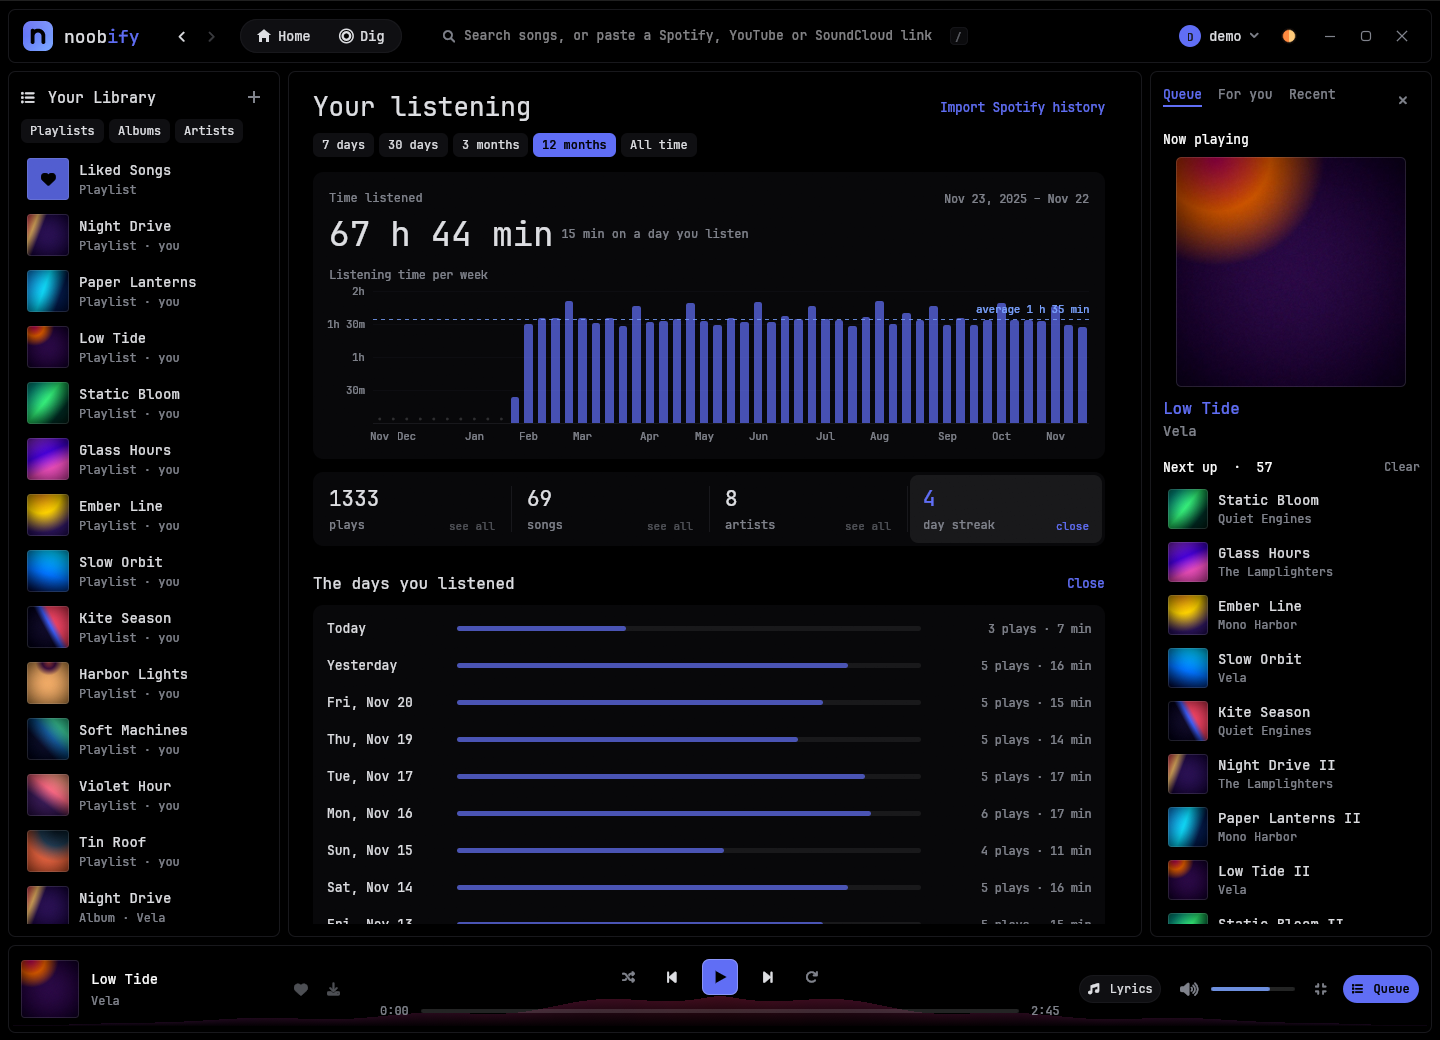
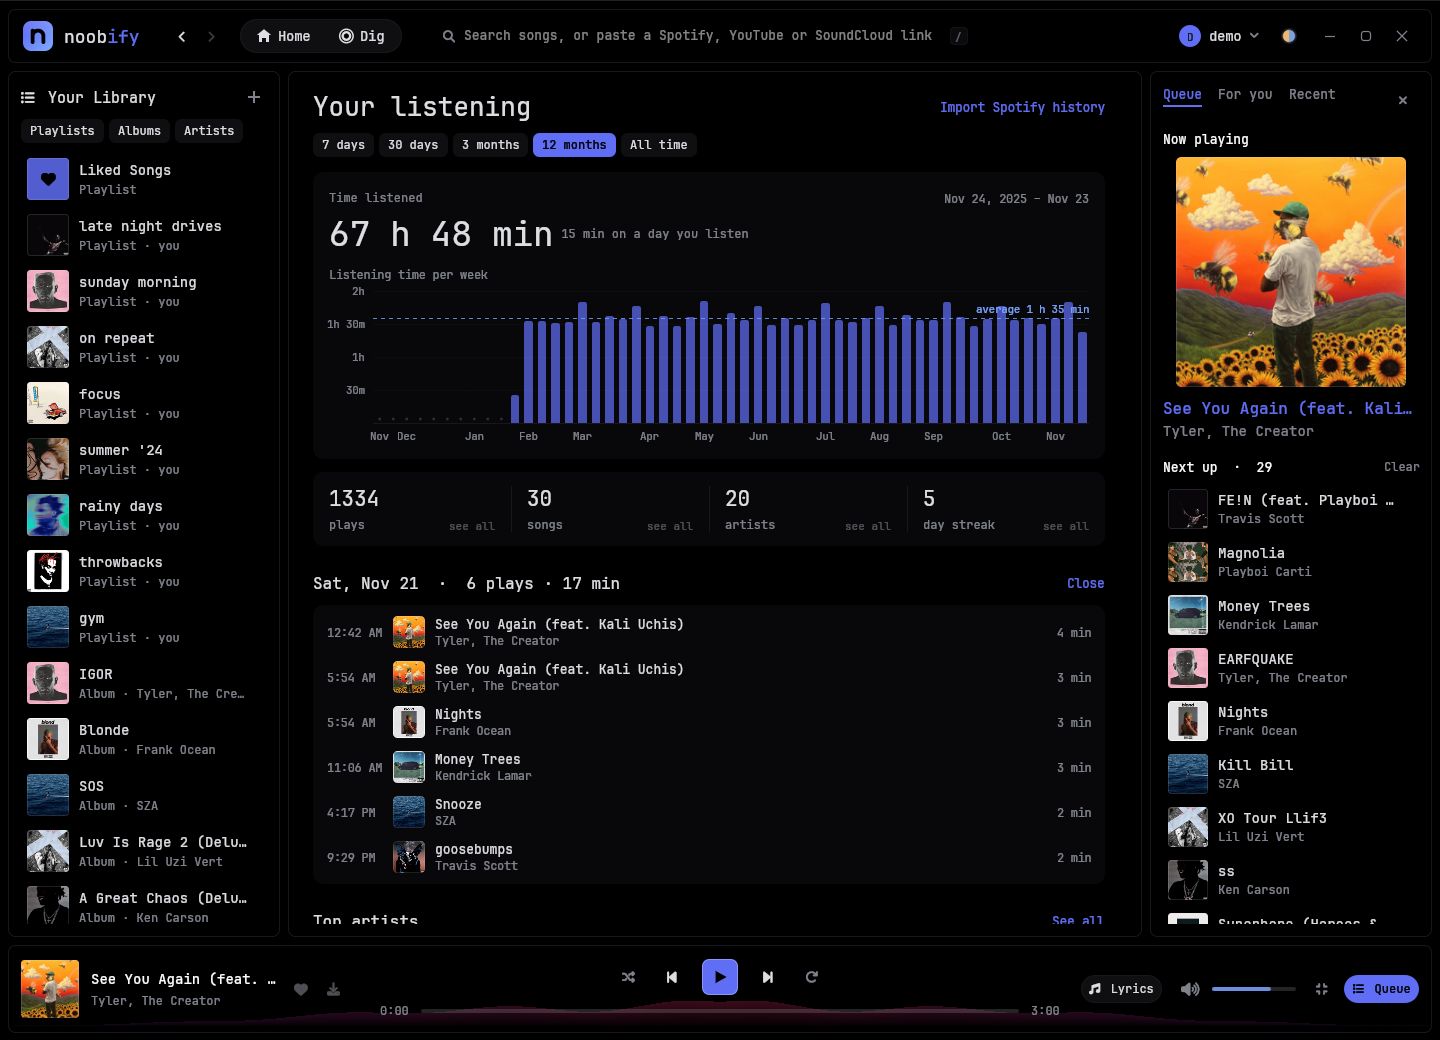
README: rewritten, with real songs in the screenshots

diff --git a/README.md b/README.md
@@ -5,7 +5,7 @@
 <h1 align="center">noobify</h1>
 
 <p align="center">
-  A free music player for Windows. YouTube and SoundCloud in one place, with your Spotify library if you want it.
+  A free music player for Windows. YouTube and SoundCloud in one place, plus your Spotify library if you want it.
 </p>
 
 <p align="center">
@@ -18,10 +18,14 @@
 
 ## Why
 
-Most of what people listen to is on YouTube, but YouTube isn't a music player. noobify
-is one: a library, a queue, lyrics, your song on Discord, and a good way to find new
-music, all playing from YouTube and SoundCloud. Sign in with Spotify and your playlists
-and liked songs come along. Skip it and everything else still works.
+Most of the music people listen to is on YouTube, but YouTube isn't a music player.
+There's no real library, the queue gets in your way, and half the results are the wrong
+version of the song. The Spotify desktop app has the library, but it's heavy, and a lot of
+music just isn't on it.
+
+So we made the player we wanted: a proper music player built on YouTube and SoundCloud,
+with a library, a queue, synced lyrics and your song on Discord. Sign in with Spotify and
+your playlists and liked songs come along. Don't, and everything else still works.
 
 It's free and open source. No account, no ads, and it never asks for admin rights.
 
@@ -36,55 +40,81 @@ It's free and open source. No account, no ads, and it never asks for admin right
   </tr>
 </table>
 
-## What it does
+## What makes it different
 
-- **Spotify if you want it**: Sign in to bring your playlists, liked songs and artist
-  pages. The music itself plays from YouTube and SoundCloud. noobify only reads your
-  Spotify account and never changes anything on it.
-- **Paste a link**: Drop a Spotify, YouTube or SoundCloud playlist link in the search
-  box and it opens as a normal playlist. Play it, save the whole thing, or pick songs out.
-- **Your own playlists**: Kept on your PC, with songs from anywhere.
-- **Lyrics**: Synced lyrics from [LRCLIB](https://lrclib.net) that follow the song line by
-  line, or word by word when the timing is known. The next song's lyrics load while the
-  current one plays.
-- **Music videos**: A song's official video plays in Now Playing, in time with the record.
-  You hear the record, not the video's version.
-- **Listen along on Discord**: Your status shows what you're playing, like Spotify's.
-  Friends can click Join and follow you song after song, pauses and skips included.
-  Clicking the song on your status plays it in their noobify, or points them here if
-  they don't have it yet.
-- **The Dig**: Crates to flip through by sound, place and era, plus records from Discogs
-  by genre, style, country and how few people own them. It leans toward music you
-  haven't heard of.
-- **For you**: Suggestions based on what you actually listen to. Mashups, karaoke and
-  sped-up versions stay out unless you play them yourself.
-- **Downloads**: Save any song as MP3 or WAV.
-- **Themes**: Skyline, Desktop, Dark, Midnight, Light and Ember, plus visualisers and
-  colours that follow each song.
-- **Your wallpaper, in the player**: The Desktop theme takes its colours and backdrop
-  from your wallpaper. It follows Wallpaper Engine too, and video wallpapers can keep
-  moving behind the player and brighten with the beat.
-- **Listening stats**: Time listened, top artists and songs, every play, your streak and
-  the days you listened, for a week, a month, a year or all time. Import your Spotify
-  history to start with years of it.
-- **Chapters**: Long mixes on YouTube and SoundCloud show their tracklist, and you can
-  jump straight to a song.
-- **Right-click anything**: Every song, in every list, on Now Playing and in the player
-  bar, has the same menu: play it next, add it to a playlist, go to the album or artist,
-  start a song radio, or pick a different upload if the wrong version plays.
-- **Keyboard**: H for Home, D for the Dig, N for Now Playing, / to search. Ctrl+Alt+Space
-  plays or pauses from any app, most games included. Media keys work too, and the song
-  shows in Windows' media panel and on the lock screen.
-- **Light on memory**: Settings shows how much memory noobify is using, what's using the
-  most, and a lighter option for each.
-- **Last.fm**: Scrobbles, if you connect it.
-- **Updates itself**: It checks for a new version once a day, verifies the download,
-  and installs it when you restart noobify. You can turn that off.
+**It plays the real song.** Search YouTube for a song and half the results are sped-up
+edits, lyric videos, live versions and covers. noobify skips all of that and finds the
+actual record. If it ever picks the wrong one, right-click the song, choose another
+upload, and it'll remember your pick from then on.
+
+**Your Spotify, YouTube and SoundCloud music, all in one place.** Your Spotify
+playlists, liked songs and artist pages sit right next to anything from YouTube and
+SoundCloud, in one library and one queue. Even playlists with thousands of songs open
+right away, and after the first time they open instantly. Local files in your Spotify
+playlists play too, matched from YouTube. noobify only reads your Spotify account and
+never changes anything on it.
+
+**Listen along with friends on Discord, for free.** Your Discord status shows what you're
+playing, cover and all. Friends hit Join and hear the same song at the same moment,
+pauses and skips included. Nobody needs Premium. If a friend doesn't have noobify yet,
+clicking your song sends them here.
+
+**Lyrics and videos that actually line up.** Lyrics come from
+[LRCLIB](https://lrclib.net) and follow the song line by line, or word by word when the
+timing's there. Turn on the video and the song's official music video plays in time with
+the record. You still hear the album version, not the video's edit.
+
+**Finds music you haven't heard yet.** The Dig is a set of crates to flip through by
+sound, place and era, plus Discogs records sorted by how few people own them. For you
+builds suggestions from what you actually play, and leaves out mashups, karaoke and
+sped-up versions unless you play those yourself.
+
+**Your stats, any time.** Think Wrapped, but whenever you want. See time listened, top
+artists and songs, every play, your streak and which days you listened, for a week, a
+month, a year or all time. Import your Spotify history and start with years of it.
+
+**Built for Windows, and light on it.** It's a native app, not a website in a box. It
+starts fast and stays small. Settings shows how much memory it's using and what you can
+turn down. Songs you've played are kept on your PC, so they start instantly the next time.
+
+## Everything else
+
+### Your music
+
+- **Paste any playlist link.** Spotify, YouTube or SoundCloud. Drop it in the search box
+  and it opens like any other playlist. Play it, save it, or pick out the songs you want.
+- **Your own playlists.** They live on your PC and can mix songs from anywhere.
+- **Chapters.** Long mixes on YouTube and SoundCloud show their tracklist, so you can jump
+  straight to a song.
+- **Downloads.** Save any song as an MP3 or WAV.
+- **Last.fm.** Connect it and noobify scrobbles for you.
+
+### Make it yours
+
+- **Themes.** Skyline, Desktop, Dark, Midnight, Light and Ember, plus visualisers and
+  colours that change with each song.
+- **Your wallpaper.** The Desktop theme takes its colours and backdrop from your
+  wallpaper. It works with Wallpaper Engine too, and video wallpapers keep moving behind
+  the player and pulse with the beat.
+
+### Control it from anywhere
+
+- **Right-click anything.** Every song has the same menu wherever it shows up: play it
+  next, add it to a playlist, go to the artist or album, or start a song radio.
+- **Keyboard shortcuts.** H for Home, D for the Dig, N for Now Playing, / to search.
+- **Global hotkey.** Ctrl+Alt+Space plays or pauses from any app, most games included.
+- **Media keys.** They just work, and the song shows in Windows' media panel and on the
+  lock screen.
+
+### Stays up to date
+
+noobify checks for a new version once a day, verifies the download and installs it when
+you restart. You can turn this off.
 
 ### Your listening, all in one place
 
 <p align="center">
-  <img src="brand/stats.png" alt="Listening stats: time per week, totals and top artists" width="880">
+  <img src="brand/stats.png" alt="Listening stats: time per day, totals and top artists" width="880">
 </p>
 
 <table>
@@ -93,32 +123,31 @@ It's free and open source. No account, no ads, and it never asks for admin right
     <td width="50%"><img src="brand/liked.png" alt="Liked Songs, in the Ember theme"></td>
   </tr>
   <tr>
-    <td align="center"><sub><b>The days you listened</b></sub></td>
+    <td align="center"><sub><b>A day's listening</b></sub></td>
     <td align="center"><sub><b>Liked Songs</b> · Ember</sub></td>
   </tr>
 </table>
-
-<sub>Screenshots are from noobify's demo mode, with made-up songs and artists.</sub>
 
 ## Install
 
 1. Open [the latest release](https://github.com/Xylloz/noobify-releases/releases/latest)
    and download `Noobify-<version>-setup.exe` (about 90 MB).
 2. Run it. If Windows warns you, see below.
-3. Open noobify from the Start menu. It installs for your Windows user only, and
-   everything it needs (yt-dlp, ffmpeg and Deno) comes with it.
+3. Open noobify from the Start menu.
 
-From then on it keeps itself up to date. Installing over an older version keeps your
-settings, history and saved songs.
+It installs for your Windows user only, and it comes with everything it needs (yt-dlp,
+ffmpeg and Deno). After that it keeps itself up to date. Installing over an older version
+keeps your settings, history and saved songs.
 
-**Portable**: `Noobify-<version>.zip` is the same app. Unzip it anywhere and run
-`noobify.exe`. It tells you when there's a new version, but you swap it in yourself.
+**Want it portable?** Grab `Noobify-<version>.zip` instead. It's the same app: unzip it
+anywhere and run `noobify.exe`. It'll tell you when there's a new version, but you swap
+it in yourself.
 
 ## If Windows warns you
 
-noobify isn't code signed yet. Free signing for open source projects through
-[SignPath](https://signpath.org) is being set up. Until then Windows doesn't know who
-made it, and new apps without many downloads get flagged.
+noobify isn't code signed yet, so Windows doesn't know who made it. New apps without many
+downloads get flagged because of that. Free signing for open source projects through
+[SignPath](https://signpath.org) is being set up.
 
 <!-- When releases are signed, replace the paragraph above with:
 noobify is signed (free code signing by SignPath.io, certificate by SignPath
@@ -130,29 +159,32 @@ that's what the warning is about.
 
 **"Smart App Control blocked an app"**: Smart App Control only runs apps Windows already
 knows, and there's no Run anyway button. You can turn it off in Windows Security, under
-App & browser control, but on some versions of Windows 11 it can't be turned back on
-without reinstalling Windows, so it's your call. If an update gets blocked this way,
-noobify keeps working as it was and shows you where to download the update yourself.
+App & browser control. Be aware that on some versions of Windows 11 you can't turn it back
+on without reinstalling Windows, so it's your call.
+
+If an update gets blocked this way, noobify keeps working as it was and shows you where to
+download the update yourself.
 
 ## Is it malware?
 
-Fair thing to wonder about a free .exe from a Discord link. Short answer: no. Long
-answer: you don't have to take our word for it, just ask your Claude. Everything is
-public, so it can read the whole thing. Something like:
+Fair question for a free .exe from a Discord link. Short answer: no.
+
+Longer answer: you don't have to take our word for it. Everything is public, so you can
+ask your Claude to read the whole thing. Something like:
 
 > hey, can you check if github.com/Xylloz/noobify is safe to install?
 
-If you'd rather look yourself:
+Or check it yourself:
 
-- **The code**: all of it is at [github.com/Xylloz/noobify](https://github.com/Xylloz/noobify),
+- **The code.** All of it is at [github.com/Xylloz/noobify](https://github.com/Xylloz/noobify),
   MIT licensed.
-- **The build**: Releases aren't built on anyone's PC. Pushing a version tag starts
+- **The build.** Releases aren't built on anyone's PC. Pushing a version tag starts
   [a GitHub Actions run](https://github.com/Xylloz/noobify/actions/workflows/release.yml)
-  that tests and builds noobify from that exact code, packages it, and publishes it
-  here. You can read every step in
+  that tests and builds noobify from that exact code, packages it and publishes it here.
+  Every step is in
   [`release.yml`](https://github.com/Xylloz/noobify/blob/main/.github/workflows/release.yml).
-- **The checksum**: Each release's `latest.json` has the SHA-256 of its setup file. To
-  check your download, run this in PowerShell and compare it with `sha256` in
+- **The checksum.** Each release's `latest.json` has the SHA-256 of its setup file. To
+  check your download, run this in PowerShell and compare the result with `sha256` in
   `latest.json`:
 
   ```
@@ -160,7 +192,7 @@ If you'd rather look yourself:
   ```
 
   noobify checks its own updates the same way before installing them.
-- **VirusTotal**: Every release is scanned, and the result is in its notes.
+- **VirusTotal.** Every release gets scanned, and the results are in its notes.
 
 <!-- vt -->
 VirusTotal's scan of 0.3.9.5:
@@ -171,32 +203,40 @@ VirusTotal's scan of 0.3.9.5:
 
 ## What it connects to
 
-Only what it needs for what you're doing: YouTube, SoundCloud, Deezer (song info and
-covers), Discogs and MusicBrainz (records), LRCLIB (lyrics), and Spotify or Last.fm if
-you sign in to them. Your Discord status goes to the Discord app on your own PC.
+Only what it needs for what you're doing:
 
-While your Discord status is on and a song is playing, noobify keeps a room open on a
-small relay on Cloudflare (it's in `relay/` in the code) so friends can click Join. It
-passes along the song, pauses and skips to whoever's listening, ten people at most. It
-never sees names or accounts and keeps nothing but the room's key. Turn the Discord
-status off and none of this happens.
+- YouTube and SoundCloud, for the music
+- Deezer, for song info and covers
+- Discogs and MusicBrainz, for records
+- LRCLIB, for lyrics
+- Spotify and Last.fm, if you sign in to them
 
-Once a day noobify reads `latest.json` from this page to check for updates. Your
-settings, history and saved songs stay on your PC in `%APPDATA%\noobify`.
+Your Discord status goes to the Discord app on your own PC.
+
+**Listening along.** While your Discord status is on and a song is playing, noobify keeps
+a room open on a small relay on Cloudflare (it's in `relay/` in the code), so friends can
+hit Join. The relay passes the song, pauses and skips to whoever's listening, ten people
+at most. It never sees names or accounts, and it keeps nothing but the room's key. Turn
+the Discord status off and none of this happens.
+
+**Updates.** Once a day noobify reads `latest.json` from this page to check for a new
+version.
+
+Your settings, history and saved songs stay on your PC, in `%APPDATA%\noobify`.
 
 ## Uninstalling
 
-Settings, Apps, noobify, Uninstall. It asks whether to delete your settings and saved
-songs too.
+Go to Settings, Apps, noobify, Uninstall. It'll ask whether to delete your settings and
+saved songs too.
 
 ## Something broke?
 
-[Open an issue](https://github.com/Xylloz/noobify/issues) with the version from the
-bottom of Settings. If they exist, attach `crash.log` and `last-failure.txt` from
+[Open an issue](https://github.com/Xylloz/noobify/issues) and include the version from
+the bottom of Settings. If you have them, attach `crash.log` and `last-failure.txt` from
 `%APPDATA%\noobify`.
 
 ## License
 
 [MIT](https://github.com/Xylloz/noobify/blob/main/LICENSE). yt-dlp (Unlicense), ffmpeg
-(GPL) and Deno (MIT) come with it under their own licenses, listed in `LICENSES.txt`
-next to `noobify.exe`. The Skyline picture is by [catzz.work](https://catzz.work).
+(GPL) and Deno (MIT) come with it under their own licenses, listed in `LICENSES.txt` next
+to `noobify.exe`. The Skyline picture is by [catzz.work](https://catzz.work).
